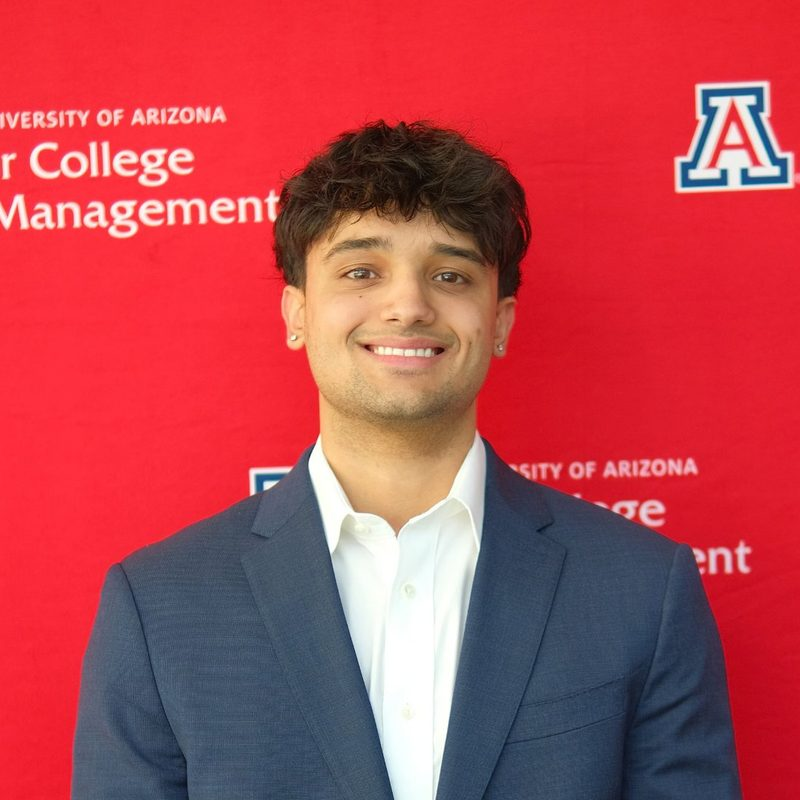
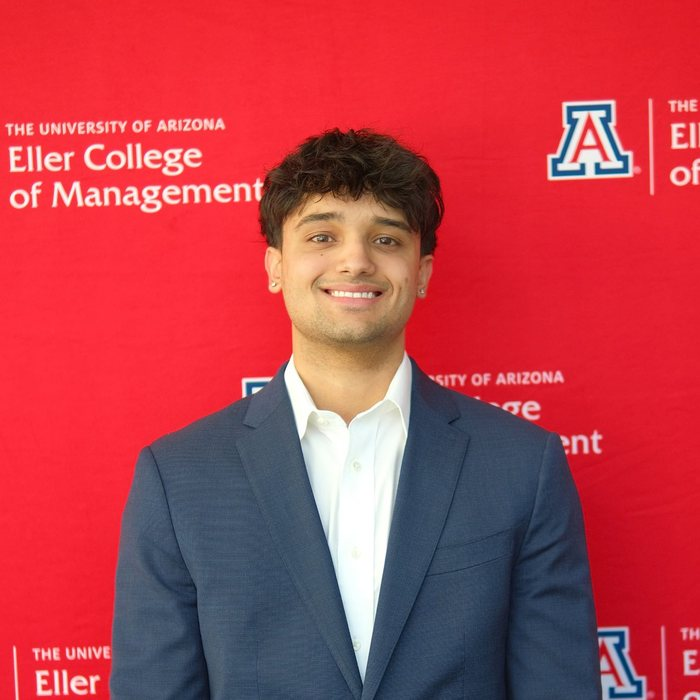
Smaller, looser headshot; sits beside name on phones
Claude-Session: https://claude.ai/code/session_01EYSmnzHij6LtAFgqLWdDgt

Changed region(s): [[0.0, 0.12, 1.0, 1.0], [0.78, 0.09, 1.0, 0.27]]

diff --git a/index.html b/index.html
@@ -36,8 +36,8 @@ nav .wrap{display:flex;align-items:center;justify-content:space-between;gap:16px
 .links a{transition:color .15s}
 .links a:hover,.links a:focus-visible{color:var(--red)}
 .hero{padding-bottom:0}
-.top{display:grid;grid-template-columns:minmax(0,1fr) clamp(200px,24vw,300px);gap:clamp(24px,4vw,56px);align-items:end}
-.head{width:100%;aspect-ratio:1;object-fit:cover;object-position:50% 40%;border-radius:50%;display:block;border:4px solid var(--red)}
+.top{display:grid;grid-template-columns:minmax(0,1fr) clamp(140px,16vw,210px);gap:clamp(24px,4vw,56px);align-items:end}
+.head{width:100%;aspect-ratio:1;object-fit:cover;object-position:50% 40%;border-radius:50%;display:block;border:3px solid var(--red);align-self:center}
 .shot{width:100%;display:block;border-radius:10px;object-fit:cover}
 .pair{display:grid;grid-template-columns:repeat(3,minmax(0,1fr));gap:10px;margin-bottom:20px}
 .pair .shot{aspect-ratio:4/5}
@@ -121,8 +121,8 @@ nav .wrap{display:flex;align-items:center;justify-content:space-between;gap:16px
 .clist a:hover,.clist a:focus-visible{background:var(--deep)}
 footer{padding:24px max(5vw,16px);color:var(--mute);font-size:14px;display:flex;flex-wrap:wrap;justify-content:space-between;gap:8px;border-top:1px solid var(--line)}
 @media(max-width:900px){.timeline,.skills{grid-template-columns:minmax(0,1fr)}.timeline::before{top:0;bottom:0;left:9px;right:auto;width:2px;height:auto}.job{padding:0 0 0 44px}.clist{grid-template-columns:minmax(0,1fr)}}
-@media(max-width:760px){.top{grid-template-columns:minmax(0,1fr) 38%}.intro,.about,.proj,.sinh{grid-template-columns:minmax(0,1fr)}.ctas{justify-content:flex-start}.proj:nth-of-type(even) .viz{order:0}.stats{grid-template-columns:repeat(2,minmax(0,1fr))}.stat:nth-child(2){border-right:0}.stat:nth-child(-n+2){border-bottom:1px solid var(--line)}}
-@media(max-width:600px){nav .wrap{gap:12px;padding-top:8px;padding-bottom:8px}.mark{font-size:0;gap:0}.mono{width:32px;height:32px;font-size:14px}.links{flex-wrap:nowrap;overflow-x:auto;gap:0 clamp(8px,3vw,14px);font-size:clamp(12.5px,3.6vw,14px);scrollbar-width:none}.links::-webkit-scrollbar{display:none}.links a{white-space:nowrap;padding:12px 0}.top{grid-template-columns:minmax(0,1fr)}.head{max-width:220px;margin:0 auto}.brow{grid-template-columns:6.5em minmax(0,1fr) 3.6em}.dots{gap:7px}}
+@media(max-width:760px){.top{grid-template-columns:minmax(0,1fr) 26%}.intro,.about,.proj,.sinh{grid-template-columns:minmax(0,1fr)}.ctas{justify-content:flex-start}.proj:nth-of-type(even) .viz{order:0}.stats{grid-template-columns:repeat(2,minmax(0,1fr))}.stat:nth-child(2){border-right:0}.stat:nth-child(-n+2){border-bottom:1px solid var(--line)}}
+@media(max-width:600px){nav .wrap{gap:12px;padding-top:8px;padding-bottom:8px}.mark{font-size:0;gap:0}.mono{width:32px;height:32px;font-size:14px}.links{flex-wrap:nowrap;overflow-x:auto;gap:0 clamp(8px,3vw,14px);font-size:clamp(12.5px,3.6vw,14px);scrollbar-width:none}.links::-webkit-scrollbar{display:none}.links a{white-space:nowrap;padding:12px 0}.top{grid-template-columns:minmax(0,1fr) clamp(84px,26vw,120px);gap:12px;align-items:center}.brow{grid-template-columns:6.5em minmax(0,1fr) 3.6em}.dots{gap:7px}}
 @media(prefers-reduced-motion:reduce){html{scroll-behavior:auto}.play{display:none}#wave .b{animation:none}}
 </style>
 </head>
